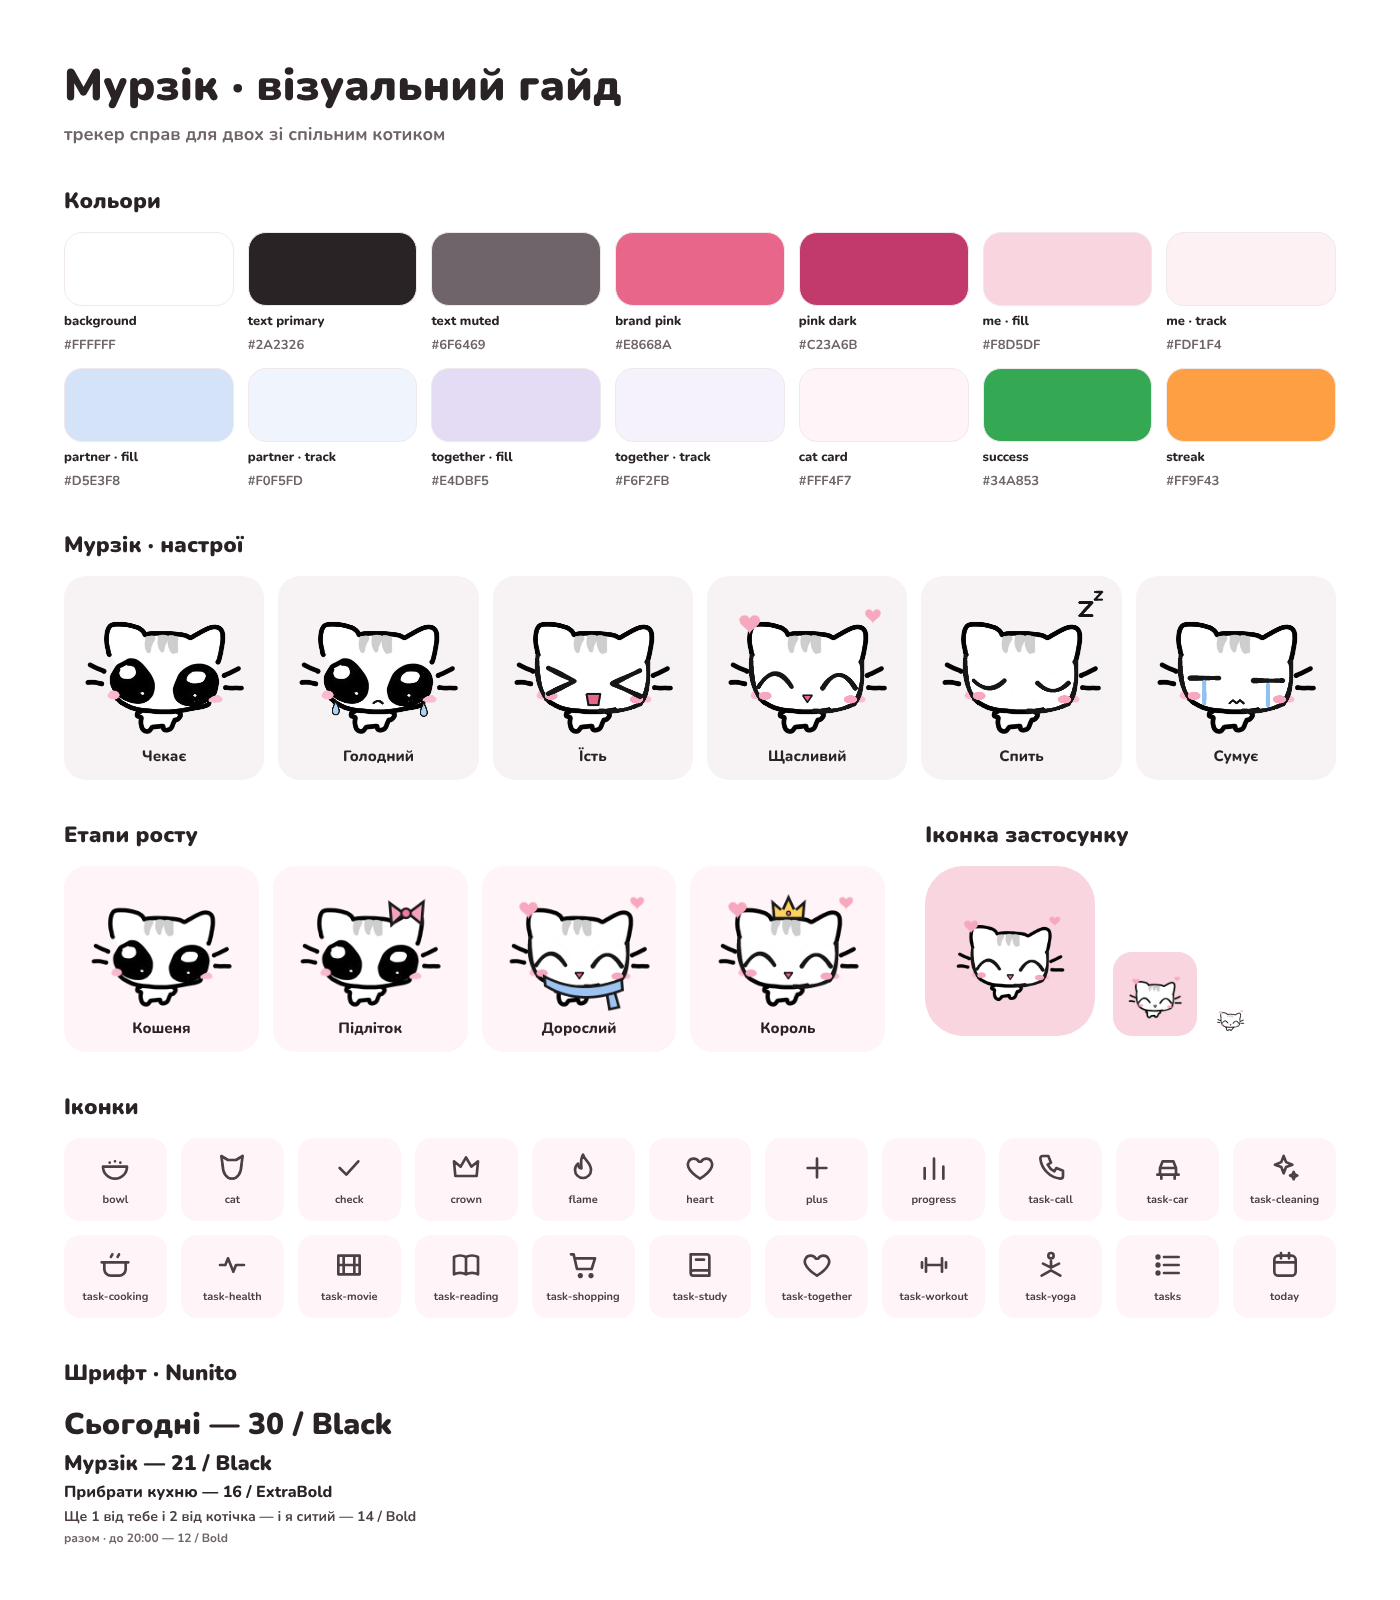
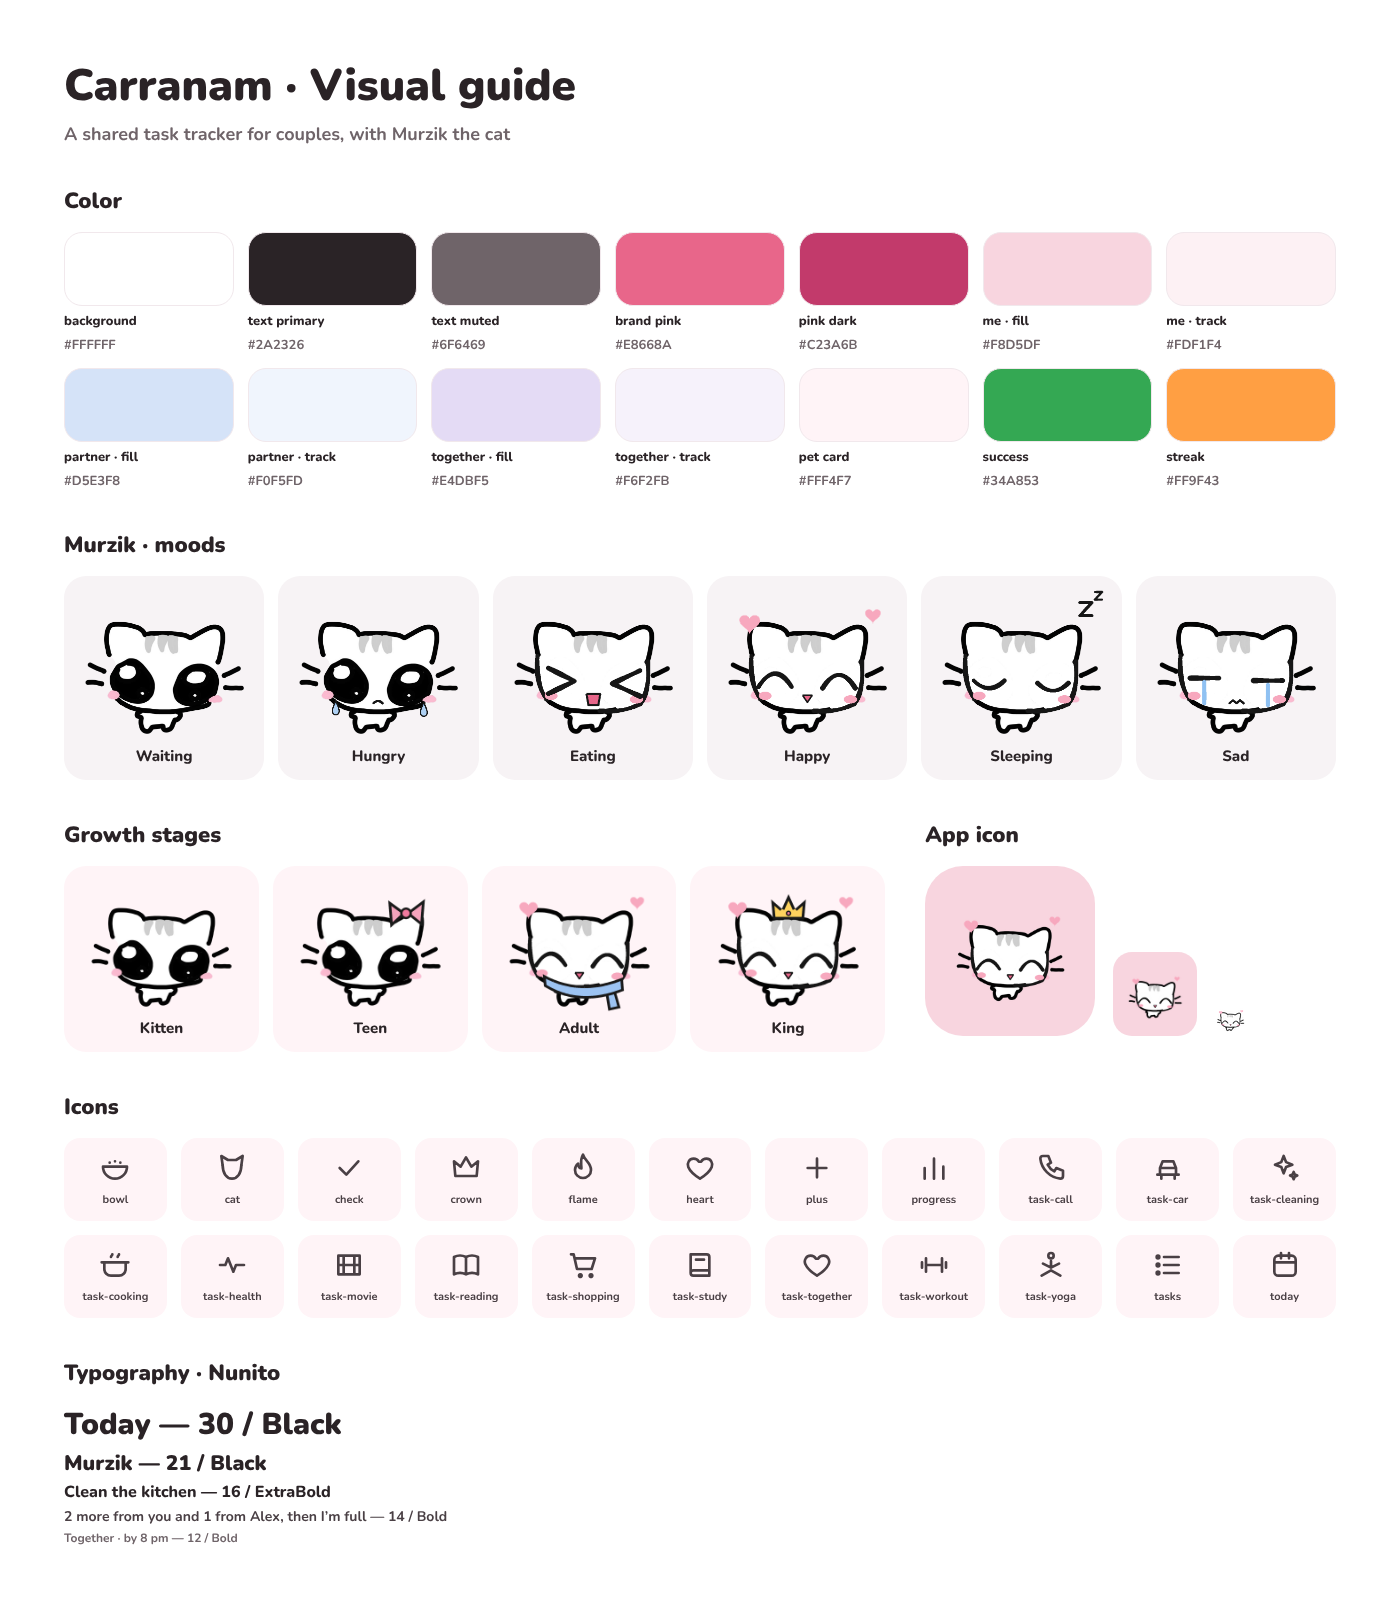
Rewrite design guide in English

diff --git a/design/DESIGN.md b/design/DESIGN.md
@@ -1,104 +1,104 @@
-# Carranam — візуал і дизайн
+# Carranam: Design Guide
 
-Живий макет з усіма екранами (можна клікати): [відкрити полотно](https://claude.ai/artifact/1HPMj4AmYbHgtNn2qLizX4)
+Interactive prototype with all screens: [open the design canvas](https://claude.ai/artifact/1HPMj4AmYbHgtNn2qLizX4) (Ukrainian UI)
 
-![Візуальний гайд](overview.png)
+![Visual guide](overview.png)
 
-## Екрани
+## Screens
 
-| Сьогодні | Справи | Нова справа |
+| Today | Tasks | New task |
 |---|---|---|
 | ![](screens/01-today.png) | ![](screens/02-tasks.png) | ![](screens/03-new-task.png) |
 
-| Мурзік | Прогрес | Сьогодні очима партнера |
+| Murzik | Progress | Today, partner's view |
 |---|---|---|
 | ![](screens/04-murzik.png) | ![](screens/05-progress.png) | ![](screens/06-today-partner-view.png) |
 
-## Стиль
+## Visual direction
 
-Світлий і чистий, у дусі Apple Reminders: білий фон, м'які заокруглені картки без обводок, один шрифт. Мальований від руки лише котик Мурзік, тому на чистому фоні він привертає увагу.
+Light and clean, in the spirit of Apple Reminders: a white background, soft rounded cards without borders, and a single typeface. The only hand-drawn element is the character, Murzik, which makes him the focal point of every screen.
 
-**Головний прийом — картка як прогрес.** Фон картки справи заливається зліва направо: справу на 2 з 5 розділів залито на 40%, виконану справу повністю.
+**The card is the progress bar.** Each task card fills from left to right as it progresses: a task at 2 of 5 chapters is 40% filled, and a completed task is fully filled.
 
-## Кольори
+## Color
 
-Колір закріплено **за людиною**, а не за словом «я», тому на обох телефонах кольори однакові.
+Colors are assigned **to people, not to "Me"**, so both partners see the same colors on their devices.
 
-| Токен | Колір | Де використовується |
+| Token | Value | Usage |
 |---|---|---|
-| `owner.me.fill` / `track` | `#F8D5DF` / `#FDF1F4` | картки й половинка миски першого партнера |
-| `owner.partner.fill` / `track` | `#D5E3F8` / `#F0F5FD` | картки й половинка миски другого партнера |
-| `owner.together.fill` / `track` | `#E4DBF5` / `#F6F2FB` | спільні справи |
-| `brand.pink` | `#E8668A` | кнопка «+», кільце сьогоднішнього дня, сегменти миски |
-| `brand.pinkDark` | `#C23A6B` | посилання, активний пункт меню (контраст ≥ 4.5:1) |
-| `text.primary` / `secondary` / `muted` | `#2A2326` / `#4A4045` / `#6F6469` | текст |
-| `cat.cardBackground` | `#FFF4F7` | картка Мурзіка |
-| `status.success` | `#34A853` | галочка виконаної справи |
-| `status.streakFlame` | `#FF9F43` | вогник стріку |
+| `owner.me.fill` / `track` | `#F8D5DF` / `#FDF1F4` | First partner's cards and half of the bowl |
+| `owner.partner.fill` / `track` | `#D5E3F8` / `#F0F5FD` | Second partner's cards and half of the bowl |
+| `owner.together.fill` / `track` | `#E4DBF5` / `#F6F2FB` | Shared tasks |
+| `brand.pink` | `#E8668A` | Add button, today's progress ring, bowl segments |
+| `brand.pinkDark` | `#C23A6B` | Links and active navigation item (≥ 4.5:1 contrast) |
+| `text.primary` / `secondary` / `muted` | `#2A2326` / `#4A4045` / `#6F6469` | Text |
+| `cat.cardBackground` | `#FFF4F7` | Murzik card |
+| `status.success` | `#34A853` | Completed task check |
+| `status.streakFlame` | `#FF9F43` | Streak indicator |
 
-Усі значення лежать у [`tokens.json`](tokens.json).
+All values are available in [`tokens.json`](tokens.json).
 
-## Шрифт
+## Typography
 
-**Nunito** (Google Fonts, підтримує кирилицю), насиченість 600–900.
+**Nunito** (Google Fonts, Latin and Cyrillic), weights 600–900.
 
-| Роль | Розмір / насиченість |
+| Role | Size / weight |
 |---|---|
-| Заголовок екрана | 30 / 900 |
-| Ім'я котика | 21 / 900 |
-| Заголовок розділу | 17–18 / 900 |
-| Назва справи | 16 / 800 |
-| Текст | 14 / 700 |
-| Мета, чіпи | 12 / 700–800 |
-| Нижнє меню | 11 / 800 |
+| Screen title | 30 / 900 |
+| Pet name | 21 / 900 |
+| Section title | 17–18 / 900 |
+| Task title | 16 / 800 |
+| Body | 14 / 700 |
+| Metadata, chips | 12 / 700–800 |
+| Bottom navigation | 11 / 800 |
 
-## Компоненти
+## Components
 
-- **Картка справи** заввишки 64 px, радіус 20. Зліва плитка-іконка 40×40, потім назва, чіп прогресу («2/5») і мета («я · щодня»). Справа стрік і кружечок-галочка (зона тапу 44 px). Заливка фону показує прогрес, анімація 450 мс.
-- **Картка Мурзіка** з радіусом 26 і фоном `#FFF4F7`. У ній котик 136 px, ім'я, стрік, підказка і два рядки миски по 3 сегменти.
-- **Смужка тижня** — 7 кружечків по 44 px з мордочкою котика. Сьогоднішній день показано кільцем, що заповнюється (conic-gradient).
-- **Сегментований перемикач** у стилі iOS: сірий фон, вибраний сегмент білий з тінню, висота 44 px.
-- **Нижнє меню**: Сьогодні · Справи · «+» · Мурзік · Прогрес. Кнопка «+» — рожеве коло 54 px.
+- **Task card.** 64 px tall, 20 px radius. A 40×40 icon tile on the left, followed by the title, a progress chip ("2/5") and metadata ("Me · daily"). On the right: the streak and a check circle with a 44 px touch target. The background fill shows progress and animates over 450 ms.
+- **Pet card.** 26 px radius on `#FFF4F7`, containing the 136 px character, name, streak, a contextual hint and two rows of bowl segments, three per partner.
+- **Week strip.** Seven 44 px circles showing the pet's face for each day. Today is shown as a progress ring (conic gradient).
+- **Segmented control.** iOS style: gray track, selected segment in white with a soft shadow, 44 px tall.
+- **Bottom navigation.** Today · Tasks · Add · Murzik · Progress. The Add button is a 54 px pink circle.
 
-## Мурзік
+## Character
 
-Котика намалювала Тетяна від руки, а емоції домальовані в тому ж стилі.
+Murzik was hand-drawn by Tetiana Miskevych. Additional emotions were drawn in the same style.
 
-| Файл | Настрій | Коли |
+| File | Mood | When |
 |---|---|---|
-| [`murzik-waiting.png`](murzik/murzik-waiting.png) | Чекає | 3–5 порцій з 6 |
-| [`murzik-hungry.png`](murzik/murzik-hungry.png) | Голодний | 0–2 порції |
-| [`murzik-eating.png`](murzik/murzik-eating.png) | Їсть | ~1,3 с після відмітки справи |
-| [`murzik-happy.png`](murzik/murzik-happy.png) | Щасливий | миска повна |
-| [`murzik-sleeping.png`](murzik/murzik-sleeping.png) | Спить | 23:00–07:00 |
-| [`murzik-sad.png`](murzik/murzik-sad.png) | Сумує | учора миска не була повною |
+| [`murzik-waiting.png`](murzik/murzik-waiting.png) | Waiting | 3–5 of 6 portions |
+| [`murzik-hungry.png`](murzik/murzik-hungry.png) | Hungry | 0–2 portions |
+| [`murzik-eating.png`](murzik/murzik-eating.png) | Eating | about 1.3 s after a task is completed |
+| [`murzik-happy.png`](murzik/murzik-happy.png) | Happy | bowl is full |
+| [`murzik-sleeping.png`](murzik/murzik-sleeping.png) | Sleeping | 23:00–07:00 |
+| [`murzik-sad.png`](murzik/murzik-sad.png) | Sad | yesterday's bowl was not full |
 
-Оригінальний скетч лежить у [`murzik/murzik-original-sketch.jpg`](murzik/murzik-original-sketch.jpg).
+The original sketch is in [`murzik/murzik-original-sketch.jpg`](murzik/murzik-original-sketch.jpg).
 
-**Етапи росту** ([`murzik/stages/`](murzik/stages)): кошеня → підліток з бантиком (7 днів) → дорослий із шарфиком (30) → король у короні (100).
-Аксесуари є і окремими SVG у [`accessories/`](accessories). Вони накладаються на малюнок котика в тій самій системі координат (`viewBox 0 0 676 596`).
+**Growth stages** ([`murzik/stages/`](murzik/stages)): kitten, teen with a bow (7 days), adult with a scarf (30 days), king with a crown (100 days).
+The accessories are also available as separate SVG files in [`accessories/`](accessories). They share the character's coordinate system (`viewBox 0 0 676 596`), so they can be layered directly on top of the artwork.
 
-## Іконки
+## Icons
 
-Усі в [`icons/`](icons): SVG 24×24, обведення 2 px, заокруглені кінці, колір `#4A4045` (у коді можна замінити на `currentColor`).
+All icons are in [`icons/`](icons): 24×24 SVG, 2 px stroke, round caps and joins, color `#4A4045` (replace with `currentColor` in code).
 
-- Навігація: `today`, `tasks`, `cat`, `progress`, `plus`
-- Стан: `check`, `flame`, `bowl`, `heart`, `crown`
-- Справи: `task-workout`, `task-yoga`, `task-cleaning`, `task-study`, `task-health`, `task-movie`, `task-call`, `task-car`, `task-reading`, `task-cooking`, `task-shopping`, `task-together`
+- Navigation: `today`, `tasks`, `cat`, `progress`, `plus`
+- Status: `check`, `flame`, `bowl`, `heart`, `crown`
+- Task categories: `task-workout`, `task-yoga`, `task-cleaning`, `task-study`, `task-health`, `task-movie`, `task-call`, `task-car`, `task-reading`, `task-cooking`, `task-shopping`, `task-together`
 
-## Іконка застосунку
+## App icon
 
-У [`app-icon/`](app-icon) щасливий Мурзік на рожевому фоні `#F8D5DF`:
-- `icon-1024.png`: App Store / джерело
-- `icon-512.png`, `icon-192.png`: маніфест PWA
-- `maskable-512.png`: maskable-іконка для Android (з більшим відступом)
-- `apple-touch-icon-180.png`: iOS, коли застосунок додано на домашній екран
-- `favicon-32.png`: вкладка браузера
+[`app-icon/`](app-icon) contains the happy Murzik on a pink `#F8D5DF` background:
+- `icon-1024.png`: source and App Store size
+- `icon-512.png`, `icon-192.png`: PWA manifest
+- `maskable-512.png`: Android maskable icon with a larger safe area
+- `apple-touch-icon-180.png`: iOS home screen
+- `favicon-32.png`: browser tab
 
-## Доступність
+## Accessibility
 
-- Контраст тексту ≥ 4.5:1: приглушений `#6F6469` на білому дає 5.7:1, `#C23A6B` дає 5.1:1
-- ⚠ На повністю залитій рожевій картці `#6F6469` дає лише 4.2:1, тому в коді мету на залитих картках краще писати `#4A4045` (7:1+)
-- Зони тапу ≥ 44 px
-- Власник справи позначається і кольором, і текстом («я», ім'я партнера, «разом»), тому колір не єдиний носій інформації
-- Анімації котика вимикаються, якщо в системі ввімкнено «зменшити рух»
+- Text contrast of at least 4.5:1: muted `#6F6469` on white is 5.7:1 and `#C23A6B` is 5.1:1.
+- On a fully filled pink card, `#6F6469` drops to 4.2:1, so metadata on filled cards should use `#4A4045` (over 7:1) in production.
+- Touch targets are at least 44 px.
+- Task ownership is shown with both color and text ("Me", the partner's nickname, "Together"), so color is never the only signal.
+- Character animations are disabled when the system "reduce motion" setting is on.
